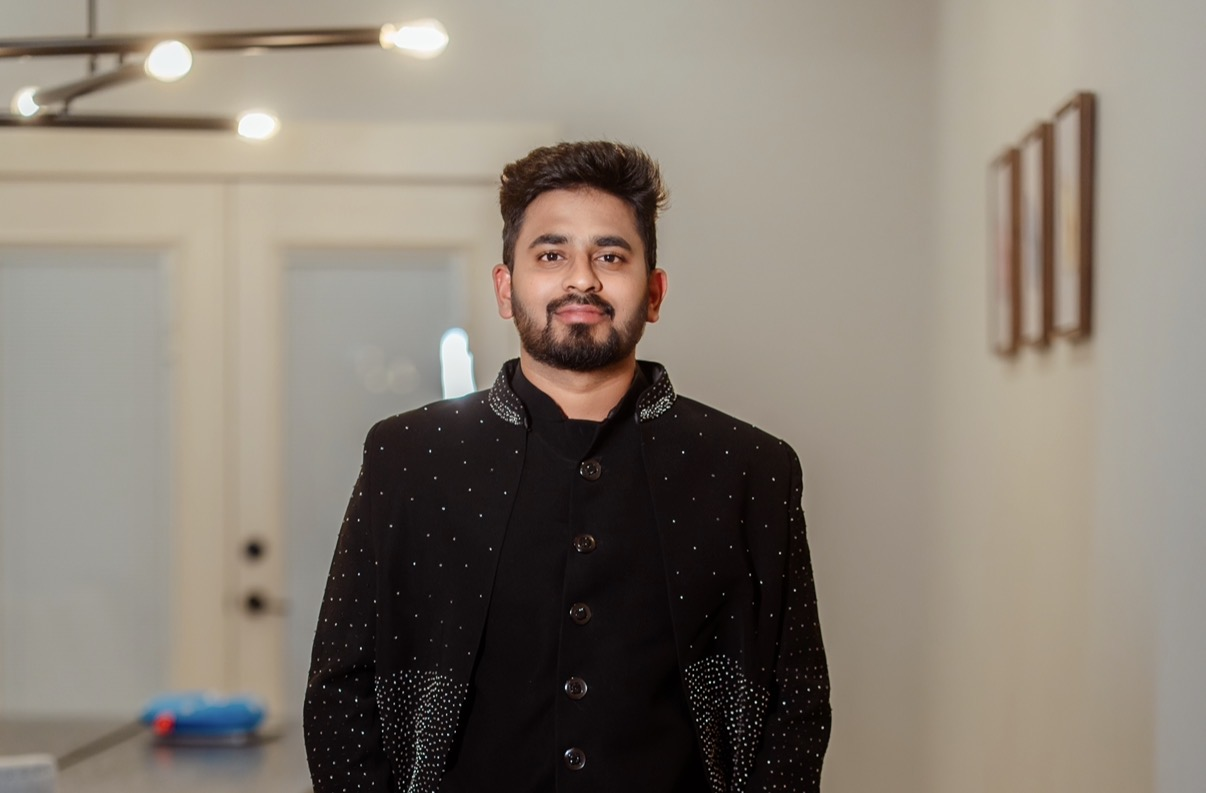
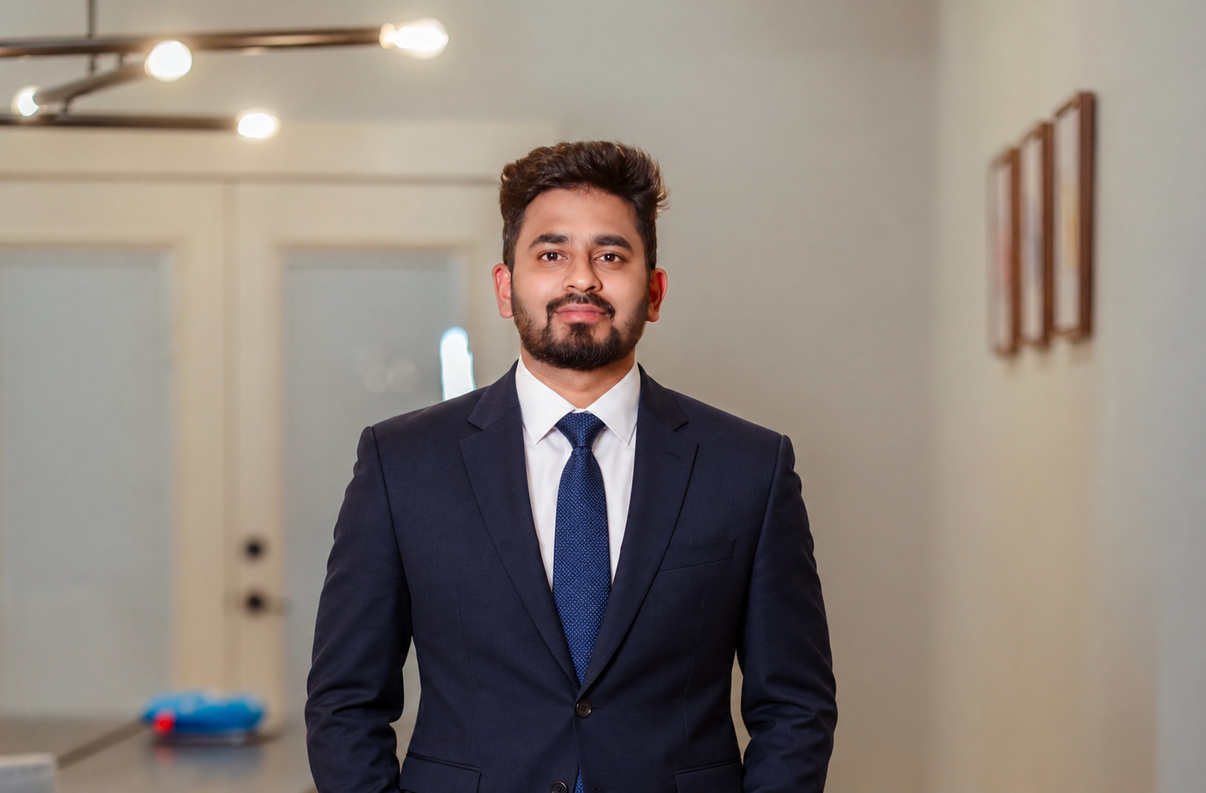
Update portfolio portrait and highlight Power BI

diff --git a/src/content.ts b/src/content.ts
@@ -7,7 +7,7 @@ export const profile = {
   email: 'ramarayudu.g@gmail.com',
   linkedin: 'https://www.linkedin.com/in/rayudu-gangumallaa/',
   resume: asset('Rama-Gangumalla-Resume.pdf'),
-  portrait: asset('rama-portrait-about.jpg'),
+  portrait: asset('rama-portrait-about.jpg') + '?v=d31d05b90692',
   hero: asset('hero-scene.jpg') + '?v=8621cea6043d',
   video: asset('rama-introduction.mp4') + '?v=8621cea6043d',
   bio: [
@@ -163,7 +163,7 @@ export const experience = [
     'Optimized PySpark transformations, reducing processing time by 25% versus previous Spark jobs.',
     'Built an internal workflow and test-planning application with Angular and FastAPI.',
     'Delivered GEMM performance reporting and Power BI dashboards.',
-  ], tags: ['Databricks', 'PySpark', 'Azure', 'FastAPI'] },
+  ], tags: ['Databricks', 'PySpark', 'Azure', 'FastAPI', 'Power BI'] },
   { company: 'Wayfair', role: 'Data Engineer', dates: 'Oct 2023 – Mar 2025', current: false, bullets: [
     'Built web and mobile clickstream ingestion through Azure Event Hubs.',
     'Managed Bronze, Silver, and Gold lakehouse layers in ADLS Gen2.',

diff --git a/src/components/Hero.tsx b/src/components/Hero.tsx
@@ -63,7 +63,7 @@ export function Hero() {
         <p className="hero-intro"><span className="small-cross" aria-hidden="true">✳</span>HI, I’M RAMA GANGUMALLA</p>
         <h1 id="hero-title">Data<br />Engineer<span className="accent-period">.</span></h1>
         <p className="hero-description">I build data pipelines, analytics platforms, and tools that help teams make sense of their data.</p>
-        <p className="hero-expertise">Python <span>·</span> SQL <span>·</span> Databricks <span>·</span> Azure</p>
+        <p className="hero-expertise">Python <span>·</span> SQL <span>·</span> Databricks <span>·</span> Azure <span>·</span> Power BI</p>
         <div className="hero-actions"><a href="#work" className="button button-primary">View My Work<ArrowUpRight size={19} aria-hidden="true" /></a><ResumeLink /></div>
         <p className="hero-location"><MapPin size={14} aria-hidden="true" />Based in Austin, Texas</p>
         {error && <p className="video-error" role="alert">{error}</p>}
